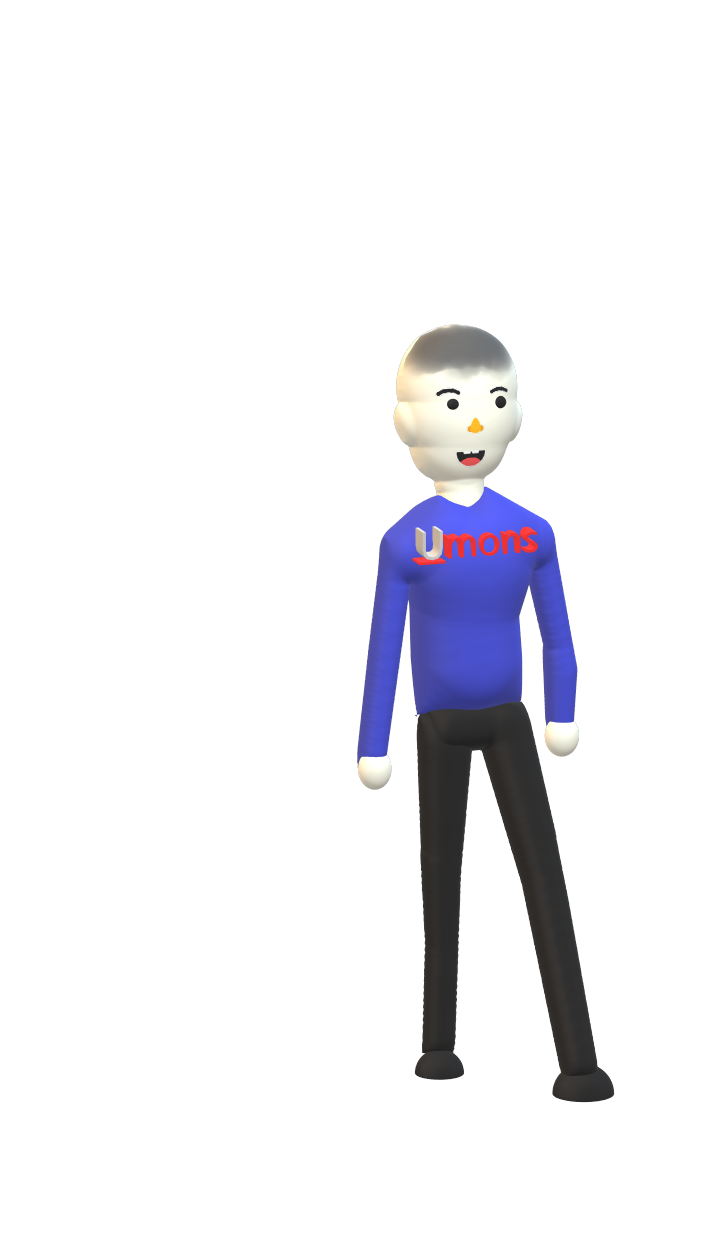
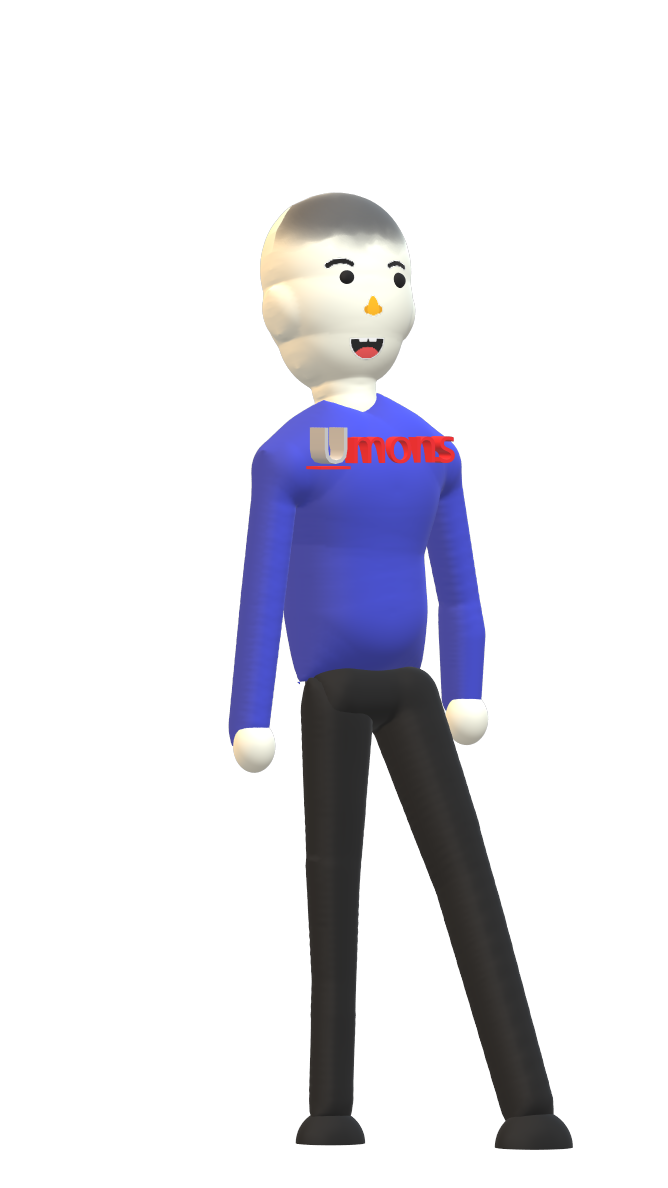
update the picture of the people and fixed a bug in dialog

Changed region(s): [[0.3293, 0.1557, 0.8683, 0.9655]]

diff --git a/core/src/be/ac/umons/sgl/mom/Quests/Master/SuccessfulYear.java b/core/src/be/ac/umons/sgl/mom/Quests/Master/SuccessfulYear.java
@@ -2,7 +2,6 @@ package be.ac.umons.sgl.mom.Quests.Master;
 
 import be.ac.umons.sgl.mom.Enums.Bloc;
 import be.ac.umons.sgl.mom.Enums.Difficulty;
-import be.ac.umons.sgl.mom.Enums.Lesson;
 import be.ac.umons.sgl.mom.Enums.MobileType;
 import be.ac.umons.sgl.mom.Enums.Place;
 import be.ac.umons.sgl.mom.Events.Notifications.Notification;
@@ -69,7 +68,7 @@ public class SuccessfulYear extends MasterQuest
      * @return list of items
      */
     @Override
-    public ArrayList<Items> whatItem()
+    public ArrayList<Items> whatItem() //TODO opimiser cela
     {
         ArrayList<Items> list = new ArrayList<>();
         for (int i=0; i < 6; i++)
@@ -90,7 +89,7 @@ public class SuccessfulYear extends MasterQuest
      * @return list of mobile
      */
     @Override
-    public ArrayList<Mobile> whatMobile()
+    public ArrayList<Mobile> whatMobile() //TODO optimiser cela
     {
         ArrayList<Mobile> list = new ArrayList<>();
         MobileType[] type = MobileType.values();

diff --git a/core/src/be/ac/umons/sgl/mom/Quests/Master/MeetAndLearn.java b/core/src/be/ac/umons/sgl/mom/Quests/Master/MeetAndLearn.java
@@ -2,7 +2,6 @@ package be.ac.umons.sgl.mom.Quests.Master;
 
 import be.ac.umons.sgl.mom.Enums.Bloc;
 import be.ac.umons.sgl.mom.Enums.Difficulty;
-import be.ac.umons.sgl.mom.Enums.Lesson;
 import be.ac.umons.sgl.mom.Enums.MobileType;
 import be.ac.umons.sgl.mom.Enums.Place;
 import be.ac.umons.sgl.mom.Events.Notifications.Notification;
@@ -69,7 +68,7 @@ public class MeetAndLearn extends MasterQuest
      * @return list of items
      */
     @Override
-    public ArrayList<Items> whatItem()
+    public ArrayList<Items> whatItem() //TODO optimiser cela
     {
         ArrayList<Items> list = new ArrayList<>();
         for (int i=0; i < 4; i++)
@@ -88,7 +87,7 @@ public class MeetAndLearn extends MasterQuest
      * @return list of mobile
      */
     @Override
-    public ArrayList<Mobile> whatMobile()
+    public ArrayList<Mobile> whatMobile() //TODO optimiser cela
     {
         ArrayList<Mobile> list = new ArrayList<>();
         MobileType[] type = MobileType.values();

diff --git a/core/src/be/ac/umons/sgl/mom/Quests/Master/MyFirstYear.java b/core/src/be/ac/umons/sgl/mom/Quests/Master/MyFirstYear.java
@@ -2,7 +2,6 @@ package be.ac.umons.sgl.mom.Quests.Master;
 
 import be.ac.umons.sgl.mom.Enums.Bloc;
 import be.ac.umons.sgl.mom.Enums.Difficulty;
-import be.ac.umons.sgl.mom.Enums.Lesson;
 import be.ac.umons.sgl.mom.Enums.MobileType;
 import be.ac.umons.sgl.mom.Enums.Place;
 import be.ac.umons.sgl.mom.Events.Notifications.Notification;
@@ -67,7 +66,7 @@ public class MyFirstYear extends MasterQuest
      * @return list of items
      */
     @Override
-    public ArrayList<Items> whatItem()
+    public ArrayList<Items> whatItem() //TODO optimiser cela
     {
         ArrayList<Items> list = new ArrayList<>();
         for (int i=0; i < 10; i++)
@@ -85,7 +84,7 @@ public class MyFirstYear extends MasterQuest
      * @return list of mobile
      */
     @Override
-    public ArrayList<Mobile> whatMobile()
+    public ArrayList<Mobile> whatMobile() //TODO optimiser cela
     {
         ArrayList<Mobile> list = new ArrayList<>();
         MobileType[] type = MobileType.values();

diff --git a/core/src/be/ac/umons/sgl/mom/Events/SuperviserNormally.java b/core/src/be/ac/umons/sgl/mom/Events/SuperviserNormally.java
@@ -165,7 +165,7 @@ public class SuperviserNormally implements Observer
         }
 
 
-
+        /***/
         public void setQuest(QuestShower qs)
         {
             qs.setQuest(people.getQuest());
@@ -408,7 +408,7 @@ public class SuperviserNormally implements Observer
         public void switchingDialog(String answer)
         {
             if (answer.equals("Attack"))
-                attackMethod(people,memoryMobile);//event.notify(new LaunchAttack(memoryMobile));
+                attackMethod(people,memoryMobile);//event.notify(new LaunchAttack(memoryMobile));TODO donner à guillaume
             if(answer.equals("ESC"))
             {
                 ArrayList<String> end = new ArrayList<>();end.add("ESC");

diff --git a/core/src/be/ac/umons/sgl/mom/Enums/Lesson.java b/core/src/be/ac/umons/sgl/mom/Enums/Lesson.java
@@ -18,11 +18,11 @@ public enum Lesson
      * ____________________________________________
      * Note of year:
      * -------------
-     * MyFirstYear == 1
-     * SuccessfulYear == 2
-     * MeetAndLearn == 3
-     * PreparedCompany   == 4
-     * FinishUniversity   == 5
+     * MyFirstYear       ==  1
+     * SuccessfulYear    ==  2
+     * MeetAndLearn      ==  3
+     * PreparedCompany   ==  4
+     * FinishUniversity  ==  5
      */
 
     /*Lesson of Bachelor 1*/
@@ -104,7 +104,10 @@ public enum Lesson
     }
 
 
-
+    /**
+     * This method allows to give the number of the course during the
+     * @return number of course
+     */
     public int numberOfCourse()
     {
         return number;

diff --git a/core/src/be/ac/umons/sgl/mom/Objects/Characters/ReadConversation.java b/core/src/be/ac/umons/sgl/mom/Objects/Characters/ReadConversation.java
@@ -93,7 +93,7 @@ public class ReadConversation
             {
                 if(vertical.charAt(0) != '%' &&  (split = vertical.split("/")).length >= 2 )
                 {
-                    list.put(split[0],new ArrayList<>(Arrays.asList(split).subList(1, split.length)));
+                    list.put(split[0],new ArrayList<>(Arrays.asList(split).subList(0, split.length)));
                 }
             }
         }
